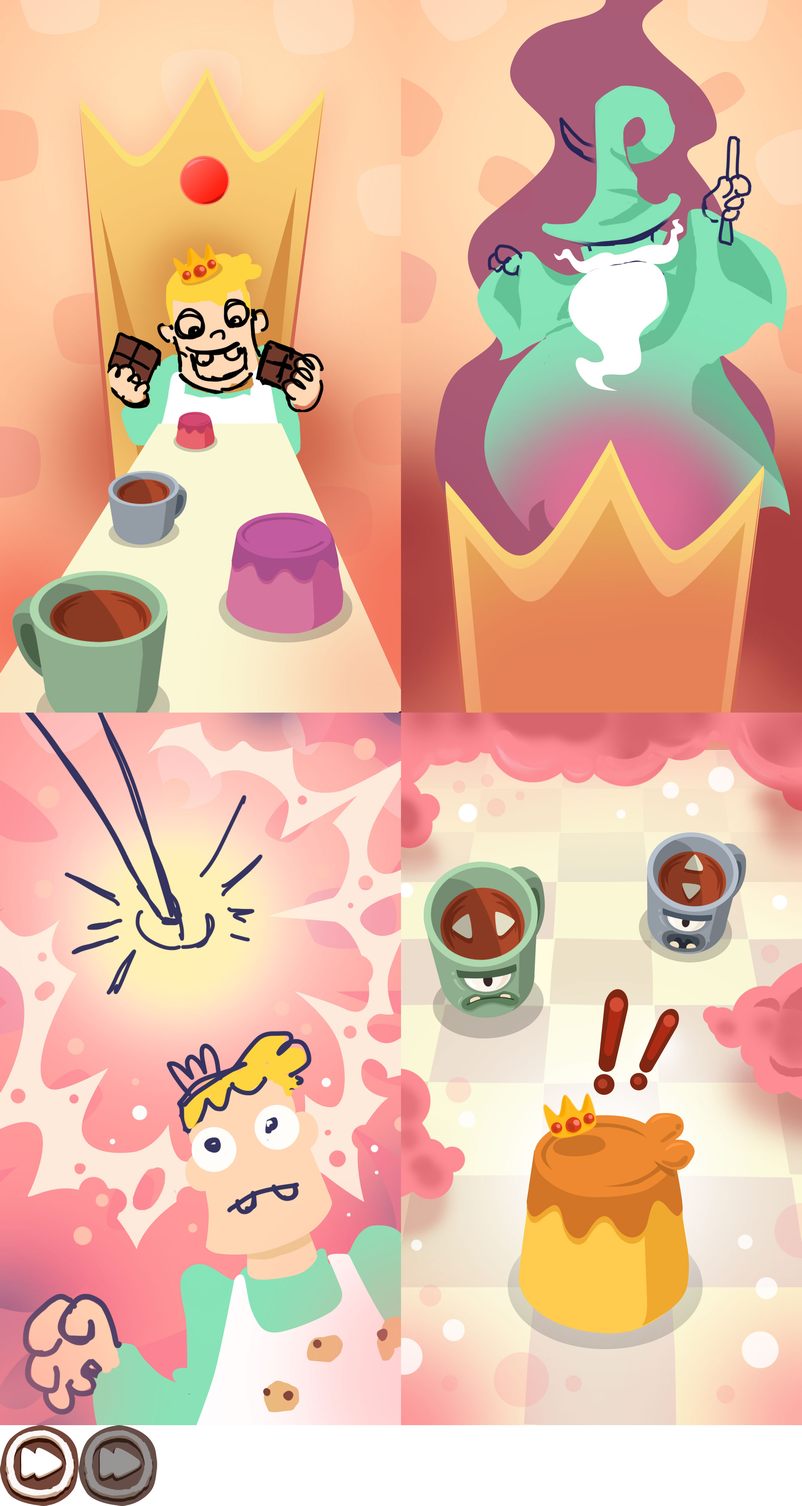
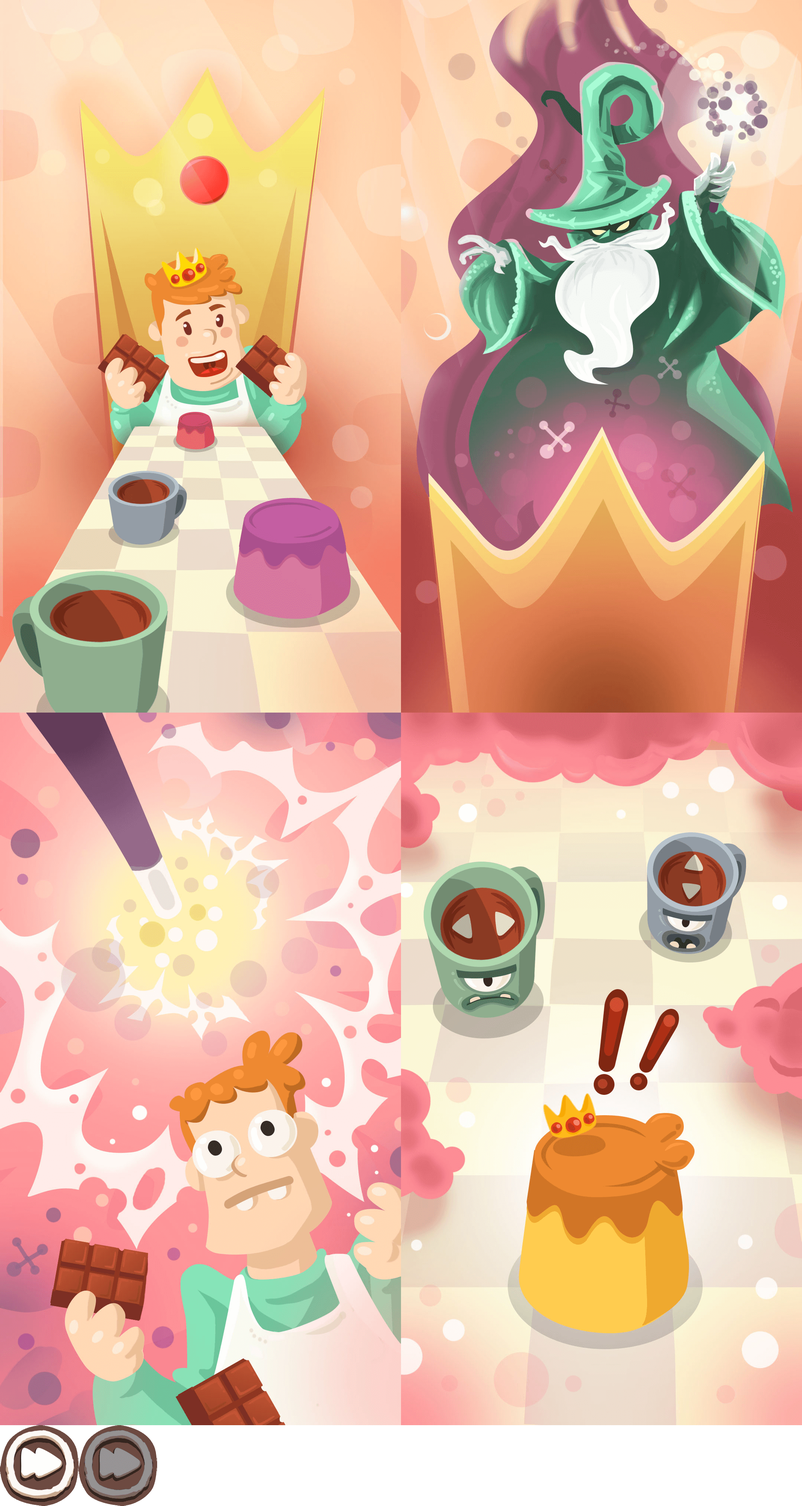
(FEAT)ADDED NEW ASSETS TO INTRO

diff --git a/src/game/modules/HistoryBoard.js b/src/game/modules/HistoryBoard.js
@@ -35,7 +35,7 @@ var HistoryBoard = function HistoryBoard(params) {
                 self.menuBg.frameName = 'intro_0' + index
                 index++
             }
-        }, 5000);
+        }, 4000);
         self.closeButton.anchor.set(0.5);
         self.add(self.closeButton);
     };
